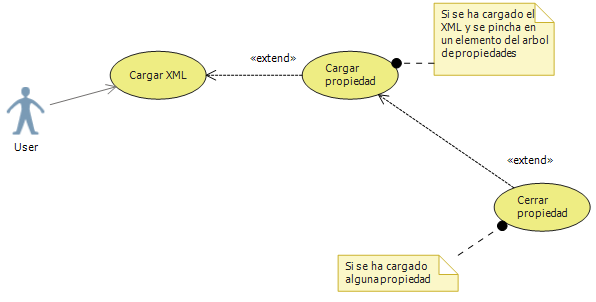
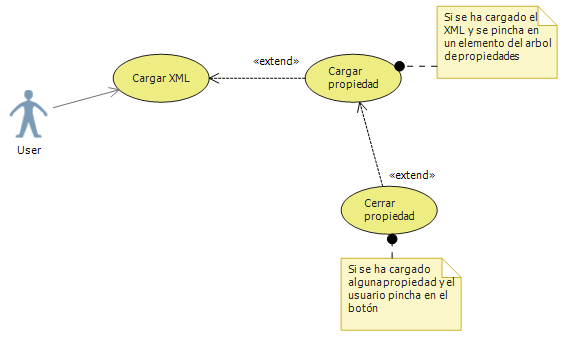
Corregidas las figuras de los CU y antecedentes
Se ha terminado el capitulo de los antecendetes, he añadido toda la
seccion de la situacion actual, explicando detalladamente eso mismo, la
situacion actual del proyecto de investigacion

diff --git a/Chapters/Captura_de_requisitos.tex b/Chapters/Captura_de_requisitos.tex
@@ -169,7 +169,7 @@ En esta secci\'on se proceder\'a a explicar brevemente cada caso de uso. %, dar 
 		    Poscondiciones			   & El contenedor de la observaci\'on y todas las 
 		    							 propiedades de la observaci\'on o la propiedad
 		    							 seleccionada dependiendo de donde se haya hecho 
-		    							 doble click. \\
+		    							 doble click y sincronizada con el rango existente, si es que lo hay. \\
 		    Interfaz gr\'afica		   & Figuras \ref{fig:Alcance}, \ref{fig:Scrum},
 		    							 \ref{fig:Alcance}, \ref{fig:Scrum} y \ref{fig:Alcance}\\
 		    \hline
@@ -180,162 +180,108 @@ En esta secci\'on se proceder\'a a explicar brevemente cada caso de uso. %, dar 
 \end{table}
 \pagebreak
 
-\subsubsection{Cargar XML}
+\subsubsection{Seleccionar rango}
 
 \begin{table}[H]
 	\begin{center}
 		\rowcolors{2}{lightgray}{} %\rowcolors{<starting row index>}{<odd row color>}{<even row color>}
 		\begin{tabular}{|l*{1}{p{10cm}}|}
 			
-			\multicolumn{2}{c}{\includegraphics[width=0.4\linewidth]{./Figures/CargarXML.png}} \\
+			\multicolumn{2}{c}{\includegraphics[width=1.0\linewidth]{./Figures/SeleccionarRango.png}} \\
 			\hline
-		    Nombre                     & Cargar XML \\
-		    Descripci\'on              & Carga un XML que contiene las propiedades
-		    							 y las observaciones en el sistema. \'Unicamente
-		    							 se cargan si el archivo valida contra el XSD.  \\ 
+		    Nombre                     & Seleccionar rango \\
+		    Descripci\'on              & Al pinchar y mover el rat\'on sobre un visualizador de datos,
+		    							 se seleccionar\'a un rango en todos los visualizadores de datos
+		    							 cargados en el sistema. \\ 
 		    Actores                    & User  \\
-		    Precondiciones             & Ninguna  \\
+		    Precondiciones             & Alguna propiedad tiene que estar cargada  \\
 		    Requisitos no funcionales  & Ninguno  \\
 		    Flujo de eventos           & \begin{enumerate}
-		    								\item El usuario pincha en File -> Load XML.
-		    								\item Se abre una ventana de selecci\'on de archivos.
-		    								\item \textbf{Si el usuario quiere cargar un fichero}
+		    								\item El usuario pincha en un visualizador de datos.
+		    								\item El usuario arrastra (manteniendo pinchado) el rat\'on.
 		    								\begin{enumerate}
-		    									\item Lo busca en el sistema de archivos
-		    									\item Lo selecciona y pincha en Abrir.
-		    									
-		    									\item \textbf{Si es un documento v\'alido}
-		    									\begin{enumerate}
-		    										\item Las observaciones y sus propiedades 
-		    											  aparecen en el \'arbol lateral.
-		    									\end{enumerate}
-		    									\item \textbf{Si no}
-		    									\begin{enumerate}
-		    										\item Se muestra un error.
-		    									\end{enumerate}
+		    									\item Cada vez que el rango seleccionado cambia, se notifica al contenedor padre.
+		    									\item El contenedor, notifica al repositorio de contenedores, para que todos
+		    									se sincronicen con el dato proporciado.
+		    									\item Se recorren todos los visualizadores de datos para sincronizarse con el nuevo
+		    									valor.
 		    								\end{enumerate}
-		    								\item \textbf{Si no desea cargarlo}
-		    								\begin{enumerate}
-		    									\item Pincha en cancelar.
-		    								\end{enumerate}
+		    								\item El usuario deja de pinchar, y se queda el rango seleccionado
 		    							 \end{enumerate} \\
-		    Poscondiciones			   & El \'arbol contendr\'a las observaciones y 
-		    							 propiedades si era un documento v\'alido, mostrar\'a
-		    							 un error si era un documento inv\'alido, o no 
-		    							 suceder\'a nada si el usuario ha decidido no cargar
-		    							 el fichero.  \\
+		    Poscondiciones			   & El rango quedar\'a seleccionado en todos los visualizadores de datos
+		    							 cargados en el sistema.  \\
 		    Interfaz gr\'afica		   & Figuras \ref{fig:Alcance}, \ref{fig:Scrum},
 		    							 \ref{fig:Alcance}, \ref{fig:Scrum} y \ref{fig:Alcance}\\
 		    \hline
 		\end{tabular}
-	\caption[Cargar XML]{Cargar XML}
-	\label{Cargar XML}
+	\caption[Seleccionar rango]{Seleccionar rango}
+	\label{SeleccionarRango}
 	\end{center}
 \end{table}
+\pagebreak
 
-\subsubsection{Cargar XML}
-
+\subsubsection{Cerrar observaci\'on}
 \begin{table}[H]
 	\begin{center}
 		\rowcolors{2}{lightgray}{} %\rowcolors{<starting row index>}{<odd row color>}{<even row color>}
 		\begin{tabular}{|l*{1}{p{10cm}}|}
 			
-			\multicolumn{2}{c}{\includegraphics[width=0.4\linewidth]{./Figures/CargarXML.png}} \\
+			\multicolumn{2}{c}{\includegraphics[width=1.0\linewidth]{./Figures/CerrarObservacion.png}} \\
 			\hline
-		    Nombre                     & Cargar XML \\
-		    Descripci\'on              & Carga un XML que contiene las propiedades
-		    							 y las observaciones en el sistema. \'Unicamente
-		    							 se cargan si el archivo valida contra el XSD.  \\ 
+		    Nombre                     & Cerrar observaci\'on \\
+		    Descripci\'on              & Elimina, tanto de manera visual, como de memoria, la observaci\'on
+		    							 seleccionada y todos sus visualizadores de datos (propiedades) asociadas  \\ 
 		    Actores                    & User  \\
-		    Precondiciones             & Ninguna  \\
+		    Precondiciones             & La observaci\'on ten\'ia que estar cargada. \\
 		    Requisitos no funcionales  & Ninguno  \\
 		    Flujo de eventos           & \begin{enumerate}
-		    								\item El usuario pincha en File -> Load XML.
-		    								\item Se abre una ventana de selecci\'on de archivos.
-		    								\item \textbf{Si el usuario quiere cargar un fichero}
-		    								\begin{enumerate}
-		    									\item Lo busca en el sistema de archivos
-		    									\item Lo selecciona y pincha en Abrir.
-		    									
-		    									\item \textbf{Si es un documento v\'alido}
-		    									\begin{enumerate}
-		    										\item Las observaciones y sus propiedades 
-		    											  aparecen en el \'arbol lateral.
-		    									\end{enumerate}
-		    									\item \textbf{Si no}
-		    									\begin{enumerate}
-		    										\item Se muestra un error.
-		    									\end{enumerate}
-		    								\end{enumerate}
-		    								\item \textbf{Si no desea cargarlo}
-		    								\begin{enumerate}
-		    									\item Pincha en cancelar.
-		    								\end{enumerate}
+		    								\item El usuario pincha sobre la ``X" \ en la esquina
+		    									  superior derecha de la observaci\'on.
+		    								\item Se borra del repositorio, liberando sus recursos, y con ello,
+		    									  sus propiedades.
+		    								\item Finalmente se borra de la pantalla.
 		    							 \end{enumerate} \\
-		    Poscondiciones			   & El \'arbol contendr\'a las observaciones y 
-		    							 propiedades si era un documento v\'alido, mostrar\'a
-		    							 un error si era un documento inv\'alido, o no 
-		    							 suceder\'a nada si el usuario ha decidido no cargar
-		    							 el fichero.  \\
+		    Poscondiciones			   & El espacio de trabajo contendr\'a todas las observaciones
+		    							 y propiedades menos la que se ha cerrado.  \\
 		    Interfaz gr\'afica		   & Figuras \ref{fig:Alcance}, \ref{fig:Scrum},
 		    							 \ref{fig:Alcance}, \ref{fig:Scrum} y \ref{fig:Alcance}\\
 		    \hline
 		\end{tabular}
-	\caption[Cargar XML]{Cargar XML}
-	\label{Cargar XML}
+	\caption[Cerrar observaci\'on]{Cerrar observaci\'on}
+	\label{Cerrar observacion}
 	\end{center}
 \end{table}
+\pagebreak
 
-\subsubsection{Cargar XML}
+\subsubsection{Cerrar propiedad}
 
 \begin{table}[H]
 	\begin{center}
 		\rowcolors{2}{lightgray}{} %\rowcolors{<starting row index>}{<odd row color>}{<even row color>}
 		\begin{tabular}{|l*{1}{p{10cm}}|}
 			
-			\multicolumn{2}{c}{\includegraphics[width=0.4\linewidth]{./Figures/CargarXML.png}} \\
+			\multicolumn{2}{c}{\includegraphics[width=1.0\linewidth]{./Figures/CerrarPropiedad.png}} \\
 			\hline
-		    Nombre                     & Cargar XML \\
-		    Descripci\'on              & Carga un XML que contiene las propiedades
-		    							 y las observaciones en el sistema. \'Unicamente
-		    							 se cargan si el archivo valida contra el XSD.  \\ 
-		    Actores                    & User  \\
-		    Precondiciones             & Ninguna  \\
-		    Requisitos no funcionales  & Ninguno  \\
-		    Flujo de eventos           & \begin{enumerate}
-		    								\item El usuario pincha en File -> Load XML.
-		    								\item Se abre una ventana de selecci\'on de archivos.
-		    								\item \textbf{Si el usuario quiere cargar un fichero}
-		    								\begin{enumerate}
-		    									\item Lo busca en el sistema de archivos
-		    									\item Lo selecciona y pincha en Abrir.
-		    									
-		    									\item \textbf{Si es un documento v\'alido}
-		    									\begin{enumerate}
-		    										\item Las observaciones y sus propiedades 
-		    											  aparecen en el \'arbol lateral.
-		    									\end{enumerate}
-		    									\item \textbf{Si no}
-		    									\begin{enumerate}
-		    										\item Se muestra un error.
-		    									\end{enumerate}
-		    								\end{enumerate}
-		    								\item \textbf{Si no desea cargarlo}
-		    								\begin{enumerate}
-		    									\item Pincha en cancelar.
-		    								\end{enumerate}
-		    							 \end{enumerate} \\
-		    Poscondiciones			   & El \'arbol contendr\'a las observaciones y 
-		    							 propiedades si era un documento v\'alido, mostrar\'a
-		    							 un error si era un documento inv\'alido, o no 
-		    							 suceder\'a nada si el usuario ha decidido no cargar
-		    							 el fichero.  \\
-		    Interfaz gr\'afica		   & Figuras \ref{fig:Alcance}, \ref{fig:Scrum},
-		    							 \ref{fig:Alcance}, \ref{fig:Scrum} y \ref{fig:Alcance}\\
-		    \hline
+			Nombre                     & Cerrar propiedad \\
+			Descripci\'on              & Elimina, tanto de manera visual, como de memoria, la propiedad
+									  	 seleccionada.  \\ 
+			Actores                    & User.  \\
+			Precondiciones             & La propiedad ten\'ia que estar cargada. \\
+			Requisitos no funcionales  & Ninguno.  \\
+			Flujo de eventos           & \begin{enumerate}
+										 	\item El usuario pincha sobre la ``X" \ en la esquina
+												  superior derecha de la propiedad.
+											\item Se borra del contenedor al que estaba asociada.
+											\item Finalmente se borra de la pantalla.
+										 \end{enumerate} \\
+			Poscondiciones			   & El espacio de trabajo contendr\'a todas las observaciones
+										 y propiedades menos la propiedad que se ha cerrado.  \\
+			Interfaz gr\'afica		   & Figuras \ref{fig:Alcance}, \ref{fig:Scrum},
+			\ref{fig:Alcance}, \ref{fig:Scrum} y \ref{fig:Alcance}\\
+			\hline
 		\end{tabular}
-	\caption[Cargar XML]{Cargar XML}
-	\label{Cargar XML}
+	\caption[Cerrar propiedad]{Cerrar propiedad}
+	\label{Cerrar propiedad}
 	\end{center}
 \end{table}
 

diff --git a/Chapters/Antecedentes.tex b/Chapters/Antecedentes.tex
@@ -3,38 +3,105 @@
 %Situación actual, estudio de diferentes alternativas 
 %existentes o distintos posibles enfoques del problema a solucionar
 \section{Situaci\'on actual}
-El grupo de investigaci\'on GALAN, esta construyendo y manteniendo un sistema de simulaci\'on que sirve para
-apoyar en la ense\~nanza a los alumnos, sobre todo en cosas que tenga que ver con actividad f\'isica.
+El proyecto desarrollado por el grupo de investigaci\'on GALAN, en colaboraci\'on con la universidad de Navarra, 
+consiste en un sistema de realidad virtual para ser utilizado para la ense\~nanza de tareas no evaluables de manera
+cl\'asica. Es decir, para lo que sirve el proyecto, es para ense\~nar habilidades y para los que se necesita un 
+profesor experto que eval\'ue en tiempo real.
 
-Actualmente, cuando capturan al experto realizando el ejercicio que se ha definido, no saben a ciencia cierta
-cuando est\'a sucediendo que cosa.
+El objetivo principal es conseguir un sistema en el que la gente entrene una habilidad concreta, por ejemplo, aprender
+a sacar correctamente en tenis, y que el sistema sea capaz de evaluar, determinar donde se ha equivocado, y en definitiva,
+ayudar a esa persona a aprender a realizar un saque de tenis correctamente.
 
-Por ejemplo, si est\'an capturando un \emph{drive} de golf, que se compone de distintas fases, no saben exactamente
-cuando empieza realmente la acci\'on de bajar los brazos para empezar el golpeo, por lo que lo hacen ``a ojo´´.
+Actualmente, se dispone de un sistema emulador de realidad virtual, en el que el alumno se captura a si mismo realizando
+la tarea que quiere aprender. Para poder realizar un diagn\'ostico, se han definido tres niveles.
 
-Al ver que este m\'etodo es poco preciso y adem\'as poco conveniente ya que se trata un poco de prueba y error,
-se me propuso realizar una aplicaci\'on que llevaban tiempo ideando.
+\begin{enumerate}
+	\item Nivel de observaci\'on
+	\item Nivel de interpretaci\'on
+	\item Nivel de diagn\'ostico
+\end{enumerate}
+
+En esos tres niveles, lo que se hace es transformar los datos en bruto generados por el sistema de realidad virtual
+a los objetos definidos del propio sistema: observaciones y propiedades.
+
+\subsection{Nivel de observaci\'on}
+En el nivel de observaci\'on lo que se hace es transformar los datos en bruto generados por el sistema de realidad virtual
+a los objetos que han sido definidos en el propio sistema: Observaciones y Propiedades.
+
+Para poder determinar de manera correcta esas propiedades y observaciones, es necesario contar con un 
+experto en el sistema interactivo, y un experto del dominio, que es quien define las observaciones y las
+propiedades que han de tenerse en cuenta. N\'otese que el experto del dominio define las observaciones y las
+propiedades en un lenguaje natural, t\'ecnico en campo.
+
+\subsubsection{Observaciones y propiedades}
+Una observaci\'on representa un hecho interesante para el diagn\'ostico, algo que tiene sentido, pero suelen
+ser lo suficientemente peque\~nas para que sean f\'acilmente diagnosticables. Ya que si la observaci\'on
+fuese ``Realizar saque", es una secuencia de varias acciones, por ejemplo: ``lanzar pelota", ``echar raqueta hacia atr\'as"
+y ``golpear pelota". De esta manera se es mucho mas granular y se pueden dar mejores diagn\'osticos.
+
+Cada observaci\'on contiene una serie de propiedades, que es lo que caracteriza una observaci\'on. 
+Siguiendo con el ejemplo del tenis, unas posibles propiedades para la observaci\'on ``lanzar pelota"
+pueden ser la velocidad a la que se levanta el brazo, el \'angulo del codo y la posici\'on del hombro.
+
+\subsection{Nivel de interpretaci\'on}
+Este es un nivel clave, en el que se crean relaciones entre las observaciones, que en el sistema se le conoce como Paso.
+Las relaciones entre observaciones son necesarias, ya que no todas las observaciones que se capturan influyen en las dem\'as,
+o no aportan informaci\'on \'util o relevante, y puede que incluso creen ruido, empeorando el diagn\'ostico.
+
+\paragraph{\textbf{Paso:}}
+Es el comportamiento de un conjunto de observaciones en el tiempo. Con un paso se define como se tienen
+que comportar las observaciones y sus propiedades en un periodo de tiempo concreto. Al igual que con las observaciones,
+se suelen definir pasos peque\~nos, como por ejemplo, ``levantar raqueta", para realizar los diagn\'osticos mejor.
+
+\paragraph{\textbf{Situacion:}}
+Define el contexto en el que suceden las observaciones y pueden influir (o no) al Paso, ya que por ejemplo, a la hora
+de tirar la pelota, habr\'ia que tener en cuenta el viento, para compensar su trayectoria, pero no habr\'ia que tener
+en cuenta el sol, ya que no afecta a la manera de lanzar la pelota.
+
+Actualmente, para crear las relaciones entre pasos y situaciones, hay una persona que lo realiza a mano. En muchos casos
+es un trabajo de prueba y error y adem\'as con resultados sub\'optimos ya que no siempre se ven claramente las relaciones,
+e incluso pueden crearse relaciones que no aporten nada.
+
+En esta situaci\'on es donde cobra sentido la realizaci\'on de este TFG. El TFG, es un primer paso para facilitar
+el trabajo a la persona que crea esas relaciones. Es una herramienta de autor que de manera gr\'afica, permite
+acotar los datos procesados en el nivel de observaci\'on. Es decir, el software no recibe datos en bruto, sino
+las propiedades y las observaciones, con sus valores en el tiempo durante una sesi\'on de trabajo.
+
+Al acotar esos datos en distintos rangos se pueden crear pasos y situaciones de una manera mucho mas sencilla, y adem\'as
+siendo mas eficientes, ya que el cerebro humano es capaz de detectar patrones complejos en el espacio.
+
+Una vez creados los pasos y situaciones, se utilizar\'an algoritmos de \emph{Machine Learning} y miner\'ia de datos para
+realizar un \emph{Feature Selection \footnote{\url{http://jmlr.org/papers/volume3/guyon03a/guyon03a.pdf}}},
+establecer las relaciones etc.
+
+\subsection{Nivel de diagn\'ostico}
+Finalmente, en este nivel, mediante distintas t\'ecnicas de diagn\'ostico, como por ejemplo el \emph{Clustering} y
+algoritmos de clasificaci\'on supervisada, compar\'andose con el experto.
+se determina si el alumno ha adquirido la habilidad, y se le proporciona el \emph{feedback} 
+necesario para saber donde tiene que incidir para poder mejorar.
 
 \section{Estudio de diferentes alternativas}
-La aplicaci\'on consiste en poder visualizar tanto en gr\'aficos como en v\'ideo lo capturado por Kinect. Al visualizar
-los gr\'aficos por pantalla y adem\'as sincronizados con uno o varios v\'ideos puede elegirse con mayor precisi\'on.
+La aplicaci\'on consiste en poder visualizar tanto en gr\'aficos como en v\'ideo lo capturado por una herramienta
+de realidad virtual. Al visualizar los gr\'aficos por pantalla y adem\'as sincronizados con uno o varios v\'ideos 
+puede elegirse con mayor precisi\'on.
 
 Para conseguir este objetivo, se barajaron distintos tipos de acercamientos al problema.
 
 \subsection{M\'ultiples ventanas dentro de una ventana maestra (MDI)}
-Al principio lo primero que se me ocurri\'o fue crear una interfaz MDI (Multiple Document Interface). Como ventajas
-ten\'ia que ya hab\'ia creado algunas aplicaciones MDI en .NET por lo que no habr\'ia mucho problema cre\'andola.
+La primera opci\'on barajada fue crear una interfaz MDI (Multiple Document Interface). Como ventajas se
+dispon\'ia de cierta experiencia creando aplicaciones MDI en .NET.
 
 Pero afront\'emoslo, estamos en 2014 y las ventanas MDI no son muy c\'omodas de utilizar cuando se disponen de varias ventanas
 abiertas, ya que no se acoplan autom\'aticamente a los lados, ni se pueden crear pesta\~nas de manera din\'amica.
-Por otro lado, las ventanas MDI fueron desaprobadas en WPF, que es el nuevo sistema de ventanas de Microsoft.
+Por otro lado, las ventanas MDI fueron desaprobadas en WPF, que es el nuevo sub sistema gr\'afico para renderizar 
+interfaces de usuario de Microsoft.
 
 \subsection{Crear una interfaz tipo IDE}
-La mayor\'ia de los IDE que conocemos, como Eclipse, Visual Studio, NetBeans IntelliJ Idea... disponen de un sistema de 
+La mayor\'ia de los IDEs conocidos, como Eclipse, Visual Studio, NetBeans IntelliJ Idea... disponen de un sistema de 
 ventanas acoplables din\'amicas. Pueden crearse grupos de pesta\~nas, redimensionarlas, ponerlas lado a lado etc.
 
 Debido a que el software va a desarrollarse con Visual Studio, era factible pensar que crear una interfaz similar al propio
-Visual Studio ser\'ia f\'acil, con controles gr\'aficos que facilitaran la tarea.
+Visual Studio ser\'ia sencillo, con controles gr\'aficos que facilitaran la tarea.
 
 La realidad es bien distinta, ya que se necesita de componentes de terceros para crear ese tipo de interfaz. Pese a ese
 peque\~no inconveniente hay distintas librer\'ias de c\'odigo abierto que proporcionan esa funcionalidad.

diff --git a/Chapters/Desarrollo.tex b/Chapters/Desarrollo.tex
@@ -50,7 +50,7 @@ La tabla ha sido confeccionada a partir de los datos obtenidos de \cite{WPFvsWin
             \hline
         \end{tabular}
     \end{center}
-    \caption[Comparativa]{Comparativa Windows Forms, y WPF}
+    \caption[Comparativa Windows Forms y WPF]{Comparativa Windows Forms y WPF}
     \label{ComparativaWPF}
 \end{table}
 
